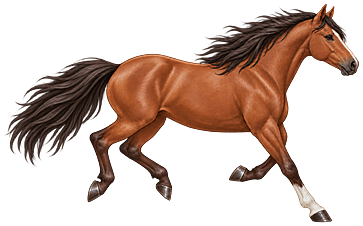
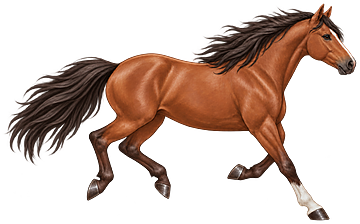
Åtta galoppbilder och fyra hoppbilder för Saga, nytt registreringsverktyg
Claude-Session: https://claude.ai/code/session_01RpaBtJaCyUHc8fCFVx5hKr

diff --git a/docs/index.html b/docs/index.html
@@ -751,7 +751,8 @@ const SPRITES={
   saga:{imgs:{},tc:{},meta:{
     large:{file:'saga_large.png',w:1024,h:787,baseline:773,anchorX:506.2,topToBaseline:761.8},
     small:{file:'saga_small.png',w:320,h:246,baseline:241.6,anchorX:158.2,topToBaseline:238.1}},
-    gallop:{"airIndex": 3, "frames": [{"large": {"file": "saga_gallop0_large.png", "w": 1163, "h": 724, "ax": 640.1, "ay": 711.0}, "small": {"file": "saga_gallop0_small.png", "w": 363, "h": 226, "ax": 200.0, "ay": 222.2}}, {"large": {"file": "saga_gallop1_large.png", "w": 1186, "h": 642, "ax": 671.2, "ay": 711.0}, "small": {"file": "saga_gallop1_small.png", "w": 371, "h": 201, "ax": 209.7, "ay": 222.2}}, {"large": {"file": "saga_gallop2_large.png", "w": 1148, "h": 720, "ax": 640.1, "ay": 723.0}, "small": {"file": "saga_gallop2_small.png", "w": 359, "h": 225, "ax": 200.0, "ay": 225.9}}, {"large": {"file": "saga_gallop3_large.png", "w": 1164, "h": 633, "ax": 626.7, "ay": 699.9}, "small": {"file": "saga_gallop3_small.png", "w": 364, "h": 198, "ax": 195.9, "ay": 218.7}}]}}
+    gallop:{"frames": [{"small": {"file": "saga_gallop0_small.png", "w": 360, "h": 224, "ax": 198.5, "ay": 220.5}}, {"small": {"file": "saga_gallop1_small.png", "w": 360, "h": 229, "ax": 195.9, "ay": 223.0}}, {"small": {"file": "saga_gallop2_small.png", "w": 354, "h": 238, "ax": 196.5, "ay": 231.0}}, {"small": {"file": "saga_gallop3_small.png", "w": 356, "h": 230, "ax": 191.9, "ay": 229.7}}, {"small": {"file": "saga_gallop4_small.png", "w": 361, "h": 217, "ax": 194.7, "ay": 217.3}}, {"small": {"file": "saga_gallop5_small.png", "w": 356, "h": 224, "ax": 198.5, "ay": 224.2}}, {"small": {"file": "saga_gallop6_small.png", "w": 368, "h": 221, "ax": 208.2, "ay": 220.8}}, {"small": {"file": "saga_gallop7_small.png", "w": 349, "h": 232, "ax": 193.8, "ay": 232.0}}]},
+    jump:{"frames": [{"small": {"file": "saga_jump0_small.png", "w": 349, "h": 249, "ax": 185.2, "ay": 245.4}}, {"small": {"file": "saga_jump1_small.png", "w": 351, "h": 236, "ax": 179.5, "ay": 233.4}}, {"small": {"file": "saga_jump2_small.png", "w": 376, "h": 206, "ax": 190.9, "ay": 206.2}}, {"small": {"file": "saga_jump3_small.png", "w": 368, "h": 236, "ax": 190.3, "ay": 231.6}}]}}
 };
 S.spriteAll=SPRITE_MODE==='all';
 if(SPRITE_MODE!=='off')for(const key of Object.keys(SPRITES)){
@@ -761,12 +762,12 @@ if(SPRITE_MODE!=='off')for(const key of Object.keys(SPRITES)){
   }
 }
 if(SPRITE_MODE!=='off')for(const key of Object.keys(SPRITES)){
-  const sp=SPRITES[key],gl=sp.gallop;if(!gl)continue;
-  sp.gimgs=gl.frames.map(()=>({}));gl.ready=false;let left=gl.frames.length*2;
-  gl.frames.forEach((f,i)=>['large','small'].forEach(sz=>{
-    const im=new Image();im.onload=()=>{sp.gimgs[i][sz]=im;if(--left===0)gl.ready=true};
-    im.src='assets/horses/'+key+'/'+f[sz].file;
-  }));
+  const sp=SPRITES[key];if(!sp.gallop)continue;
+  sp.ready=false;let left=0;
+  for(const set of ['gallop','jump']){
+    const fl=sp[set].frames;sp[set].imgs=fl.map(()=>null);left+=fl.length;
+    fl.forEach((f,i)=>{const im=new Image();im.onload=()=>{sp[set].imgs[i]=im;if(--left===0)sp.ready=true};im.src='assets/horses/'+key+'/'+f.small.file});
+  }
 }
 ctx.imageSmoothingEnabled=true;ctx.imageSmoothingQuality='high';
 function spriteFor(h){
@@ -791,20 +792,24 @@ function drawSprite(h,sp,sx,sy,o){
   const L=LOOK[h.t]||LOOK.R;
   const hu=80*(o.scale||1)*HS*L.s*(1-(h.row||0)*.05);                 // örats topp till hov, i logiska enheter
   const wDev=(sp.meta.large.w/sp.meta.large.topToBaseline)*hu*scale;  // ritad bredd i skärmpixlar
-  const sz=wDev>400?'large':'small',m=sp.meta[sz],k=hu/m.topToBaseline;
-  let img=sp.imgs[sz],ax=m.anchorX,ay=m.baseline,dw=m.w,dh=m.h,id=sz+':s';
-  const gl=sp.gallop;
-  if(!o.stable&&gl&&gl.ready){
-    let gi=-1;
-    if(h.state==='air'||h.state==='fall')gi=gl.airIndex;
-    else if(h.state==='run'&&S.v>50)gi=Math.floor((((h.phase||0)/(2*Math.PI))%1+1)%1*gl.frames.length)%gl.frames.length;
-    if(gi>=0){const f=gl.frames[gi][sz];img=sp.gimgs[gi][sz];ax=f.ax;ay=f.ay;dw=f.w;dh=f.h;id=sz+':g'+gi}
+  const sz=wDev>400?'large':'small',m=sp.meta[sz];
+  let img=sp.imgs[sz],ax=m.anchorX,ay=m.baseline,dw=m.w,dh=m.h,id=sz+':s',kk=hu/m.topToBaseline;
+  if(!o.stable&&sp.ready){
+    let fr=null,im=null;
+    if(h.state==='air'||h.state==='fall'){
+      const t=h.state==='fall'?.6:clamp((h.x-h.xt)/(h.D||1),0,.999),n=sp.jump.frames.length,i=Math.min(n-1,t<.2?0:t<.5?1:t<.8?2:3);
+      fr=sp.jump.frames[i].small;im=sp.jump.imgs[i];
+    }else if(h.state==='run'&&S.v>50){
+      const n=sp.gallop.frames.length,i=Math.floor((((h.phase||0)/(2*Math.PI))%1+1)%1*n)%n;
+      fr=sp.gallop.frames[i].small;im=sp.gallop.imgs[i];
+    }
+    if(fr&&im){img=im;ax=fr.ax;ay=fr.ay;dw=fr.w;dh=fr.h;id='f'+fr.file;kk=hu/sp.meta.small.topToBaseline}
   }
   ctx.save();ctx.translate(sx,sy);
   ctx.globalAlpha=o.alpha!=null?o.alpha:1;
   if(h.rot){ctx.translate(0,-hu*.4);ctx.rotate(h.rot);ctx.translate(0,hu*.4)}
   if(o.stable)ctx.scale(1,1+Math.sin(S.time*1.7)*.004);
-  ctx.drawImage(tintedSprite(sp,id,img),-ax*k,-ay*k,dw*k,dh*k);
+  ctx.drawImage(tintedSprite(sp,id,img),-ax*kk,-ay*kk,dw*kk,dh*kk);
   ctx.restore();
 }
 const LOOK={

diff --git a/tools/make_gallop.py b/tools/make_gallop.py
@@ -1,28 +1,33 @@
 #!/usr/bin/env python3
-"""Gör spelklara galoppbilder av en målad häst (fyra nyckelposer).
+"""Gör spelklara galopp- och hoppbilder av en målad häst.
 
-Användning:  python3 -I tools/make_gallop.py docs/assets/horses/saga saga a,d,c,b
+Användning:
+  python3 -I tools/make_gallop.py docs/assets/horses/saga saga a,e,g,h,b,c,d,f 3,4,1,2
 
 Förutsätter att <nyckel>_master.png (stående) redan körts genom make_sprites.py (för <nyckel>.json).
-Galoppbilderna ligger som gallop_<bokstav>_master.png. Ordningen anger rörelsecykeln.
+Galoppbilderna ligger som gallop_<bokstav>_master.png och hoppbilderna som jump_<nummer>_master.png.
+Ordningen anger rörelsen i tid (galoppcykeln; hoppet från avstamp till landning).
 
 Vad som görs:
-- skalar alla galoppbilder med en gemensam faktor så att pälsytan matchar den stående bilden
-- justerar färgen jämnt (en faktor per kanal) så att galopp och stående blir samma häst
-- registrerar varje bild mot kroppens tyngdpunkt i sidled och en gemensam marklinje i höjdled,
-  så att kroppen inte hoppar mellan bilderna men hovarna lyfter i svävfaserna precis som i målningen
-- beskär och gör två storlekar (samma pixelskala som stående: stor och liten), förmultiplicerad alfa
-- skriver <nyckel>_gallop.json med mått och ankarpunkter per bild
+- skalar alla bilder med en gemensam faktor så att pälsytan matchar den stående bilden
+- justerar färgen jämnt (en faktor per kanal) så att alla poser blir samma häst
+- registrerar sidled mot kroppens tyngdpunkt, höjdled mot en gemensam marklinje:
+    galopp: fast marklinje (hovarna i stödfas når marken, i svävfas lyfter de)
+    hopp:   marklinjen sätts så att kroppen ligger på normal höjd men hovarna aldrig hamnar under marken
+- beskär och skriver bara den lilla storleken (320 px-skala, flocken); stor behövs bara för stående
+- skriver <nyckel>_gallop.json med mått och ankarpunkter
 """
 import sys, os, json
 import numpy as np
 from PIL import Image, ImageFilter
 
-d, key, order = sys.argv[1], sys.argv[2], sys.argv[3].split(',')
+d, key = sys.argv[1], sys.argv[2]
+gorder = sys.argv[3].split(',')
+jorder = sys.argv[4].split(',') if len(sys.argv) > 4 else []
 std = json.load(open(os.path.join(d, key + '.json')))
 W = std['crop_px'][0]
-fL, fS = 1024 / W, 320 / W
-GROUND = 956          # hovarnas nedre kant i bild a (stödfas), gemensam marklinje för alla galoppbilder
+fS = 320 / W
+GROUND = 956          # hovarnas nedre kant i stödfas (gemensam marklinje för galoppbilderna)
 TORSO_SHIFT = 19      # stående bildens ankare ligger 19 px (originalpixlar) bakom kroppens tyngdpunkt
 
 
@@ -37,52 +42,55 @@ def coat(a):
     return (a[..., 3] >= 128) & (r > 110) & (r > g * 1.15) & (g > b * 1.05) & (r - b > 60)
 
 
-def torso_cx(a):
+def torso(a):
     m = coat(a)
     sm = Image.fromarray((m * 255).astype(np.uint8)).resize((a.shape[1] // 4, a.shape[0] // 4), Image.BOX)
     sm = sm.point(lambda v: 255 if v > 128 else 0)
     op = np.array(sm.filter(ImageFilter.MinFilter(33)).filter(ImageFilter.MaxFilter(33))) > 0
     ys, xs = np.where(op)
-    return float(xs.mean() * 4)
+    return float(xs.mean() * 4), float(ys.mean() * 4)
 
 
 stand = load(os.path.join(d, key + '_master.png'))
 sm_mask = coat(stand)
 stand_mean = stand[sm_mask][:, :3].mean(axis=0)
 stand_area = sm_mask.sum()
-frames = {c: load(os.path.join(d, f'gallop_{c}_master.png')) for c in order}
-masks = {c: coat(a) for c, a in frames.items()}
-g_mean = np.mean([frames[c][masks[c]][:, :3].mean(axis=0) for c in order], axis=0)
-g_area = np.mean([masks[c].sum() for c in order])
+files = [('gallop', c, os.path.join(d, f'gallop_{c}_master.png')) for c in gorder] + \
+        [('jump', j, os.path.join(d, f'jump_{j}_master.png')) for j in jorder]
+frames = {(k, c): load(p) for k, c, p in files}
+masks = {kc: coat(a) for kc, a in frames.items()}
+g_mean = np.mean([frames[kc][masks[kc]][:, :3].mean(axis=0) for kc in frames], axis=0)
+g_area = np.mean([masks[kc].sum() for kc in frames])
 cfac = stand_mean / g_mean
 s = float(np.sqrt(stand_area / g_area))
-print('färgfaktor', cfac.round(3), 'skala', round(s, 4))
+tors = {kc: torso(a) for kc, a in frames.items()}
+BODY_H = float(np.mean([GROUND - tors[kc][1] for kc in frames if kc[0] == 'gallop']))  # kroppens normala höjd över marken
+print('färgfaktor', cfac.round(3), 'skala', round(s, 4), 'normal kroppshöjd', round(BODY_H))
 
-meta = {'order': order, 'colorFactor': [round(float(v), 4) for v in cfac], 'scale': round(s, 4), 'frames': []}
-for i, c in enumerate(order):
-    a = frames[c].copy()
-    tcx = torso_cx(a) + TORSO_SHIFT
-    rgb = np.clip(a[..., :3].astype(float) * cfac, 0, 255).astype(np.uint8)
-    a[..., :3] = rgb
+meta = {'colorFactor': [round(float(v), 4) for v in cfac], 'scale': round(s, 4), 'gallop': {'order': gorder, 'frames': []}, 'jump': {'order': jorder, 'frames': []}}
+for (kind, c, _p) in files:
+    a = frames[(kind, c)].copy()
+    tcx, tcy = tors[(kind, c)]
+    a[..., :3] = np.clip(a[..., :3].astype(float) * cfac, 0, 255).astype(np.uint8)
+    lowest = float(np.where(a[..., 3] >= 128)[0].max())
+    ground = GROUND if kind == 'gallop' else max(tcy + BODY_H, lowest)
     im = Image.fromarray(a)
     nw, nh = round(a.shape[1] * s), round(a.shape[0] * s)
     im = im.convert('RGBa').resize((nw, nh), Image.LANCZOS).convert('RGBA')
-    ax, ay = tcx * s, GROUND * s
+    ax, ay = (tcx + TORSO_SHIFT) * s, ground * s
     al = np.array(im)[..., 3]
     ys, xs = np.where(al > 8)
     pad = 14
     x0, x1 = max(xs.min() - pad, 0), min(xs.max() + pad + 1, nw)
-    y0, y1 = max(ys.min() - pad, 0), min(ys.max() + pad + 1, nh)
-    crop = im.crop((x0, y0, x1, y1))
-    entry = {'letter': c}
-    for name, f in (('large', fL), ('small', fS)):
-        w, h = round(crop.width * f), round(crop.height * f)
-        r = crop.convert('RGBa').resize((w, h), Image.LANCZOS).convert('RGBA')
-        if name == 'small':
-            r = r.filter(ImageFilter.UnsharpMask(radius=1.0, percent=60, threshold=2))
-        fn = f'{key}_gallop{i}_{name}.png'
-        r.save(os.path.join(d, fn), optimize=True)
-        entry[name] = {'file': fn, 'w': w, 'h': h, 'ax': round((ax - x0) * f, 1), 'ay': round((ay - y0) * f, 1)}
-        print(fn, w, h, os.path.getsize(os.path.join(d, fn)) // 1024, 'kB')
-    meta['frames'].append(entry)
+    y0, y1 = int(min(ys.min() - pad, ay - 1)), int(max(ys.max() + pad + 1, ay + 1))
+    # fyll ut med genomskinlig yta om marklinjen ligger utanför bilden (hopp)
+    canvas = Image.new('RGBA', (x1 - x0, y1 - y0), (0, 0, 0, 0))
+    canvas.alpha_composite(im.crop((x0, max(y0, 0), x1, min(y1, nh))), (0, max(0, -y0)))
+    idx = len(meta[kind]['frames'])
+    w, h = round(canvas.width * fS), round(canvas.height * fS)
+    r = canvas.convert('RGBa').resize((w, h), Image.LANCZOS).convert('RGBA').filter(ImageFilter.UnsharpMask(radius=1.0, percent=60, threshold=2))
+    fn = f'{key}_{kind}{idx}_small.png'
+    r.save(os.path.join(d, fn), optimize=True)
+    meta[kind]['frames'].append({'letter': c, 'small': {'file': fn, 'w': w, 'h': h, 'ax': round((ax - x0) * fS, 1), 'ay': round((ay - y0) * fS, 1)}})
+    print(fn, w, h, os.path.getsize(os.path.join(d, fn)) // 1024, 'kB', '| marklinje', round(ground))
 json.dump(meta, open(os.path.join(d, key + '_gallop.json'), 'w'), indent=1)

diff --git a/docs/README.md b/docs/README.md
@@ -1,4 +1,4 @@
-# Save the Horses – prototyp 0.8
+# Save the Horses – prototyp 0.9
 
 Grå-boxad webbprototyp för att testa **hoppkänslan** och **sparning i hagar**. Ingen riktig konst, inga beroenden – en enda fil.
 
@@ -58,3 +58,9 @@ Konstanter överst i skriptet (`CFG`, `TYPES`) och `buildLevel()`: fart, hopplä
 - Ordningen a → d → c → b valdes så att silhuetten ändras minst mellan bilderna och så att benens rörelse blir rimlig (landa fram, samla, trycka ifrån, sträcka ut).
 - I spelet: stående när flocken står/går, galoppbilder när farten är över 50, utsträckt pose (bild b) i hopp och fall. Byte av bild följer hästens galoppfas, så varje häst har sin egen takt.
 - Kända begränsningar: bara fyra bilder (ca 10 bilder/s i full fart), håret ritas om i varje bild så det kan flimra något, ingen egen hoppbild (använder den utsträckta posen), inga frisyr-/grimm-/smutslager på bilderna.
+
+## Nytt i 0.9: åtta galoppbilder och ett riktigt hopp
+- **Galopp:** åtta målade bilder (a, e, g, h, b, c, d, f). Ordningen valdes så att silhuetten ändras minst mellan bilderna och så att framhoven rör sig bakåt under marken i stödfasen. I full fart blir det ca 20 bilder/s.
+- **Hopp:** fyra målade poser (jump_3 avstamp, jump_4 stigande, jump_1 högsta punkt, jump_2 landning) som väljs efter hur långt in i hoppet hästen är. Fall ner i en avgrund använder högsta-punkt-posen.
+- Bygg om bilderna med: `python3 -I tools/make_gallop.py docs/assets/horses/saga saga a,e,g,h,b,c,d,f 3,4,1,2`. Skriptet skalar och färgjusterar alla poser mot den stående bilden, registrerar dem (galopp mot fast marklinje, hopp så att hovarna aldrig hamnar under marken) och skriver bara den lilla storleken (flocken). Stor storlek behövs bara för den stående bilden i stallet.
+- Begränsningar: håret ritas om i varje bild (kan flimra något), hovarna är glansiga och ser nästan skodda ut jämfört med den stående bilden, och bilderna saknar lager för frisyr, grimma och borstning.
